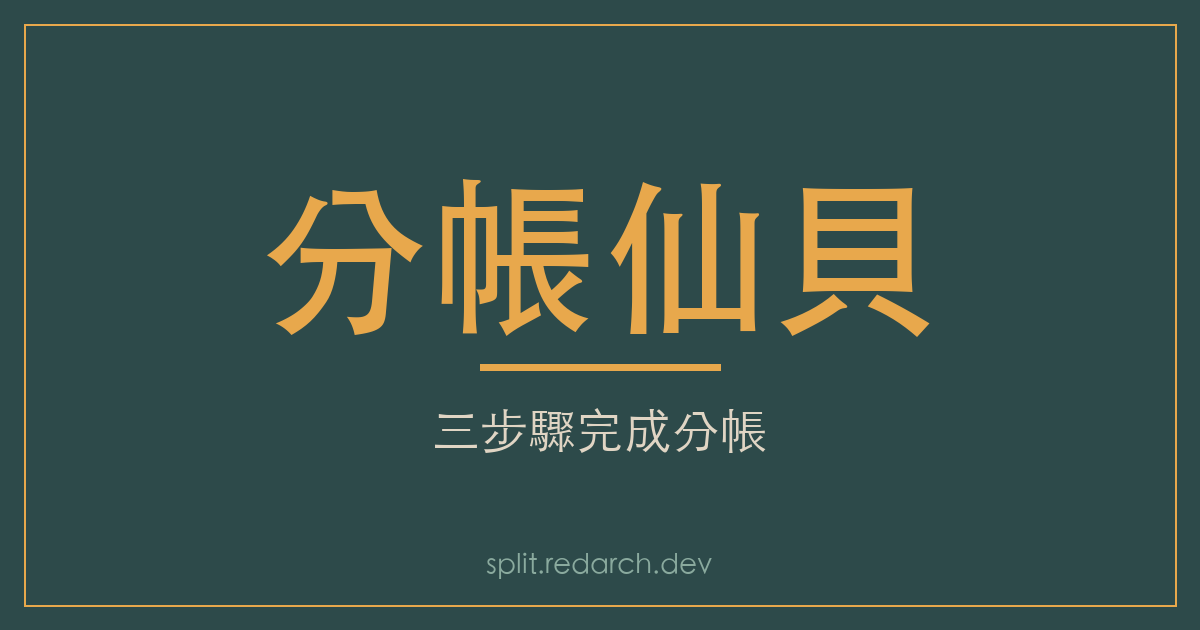
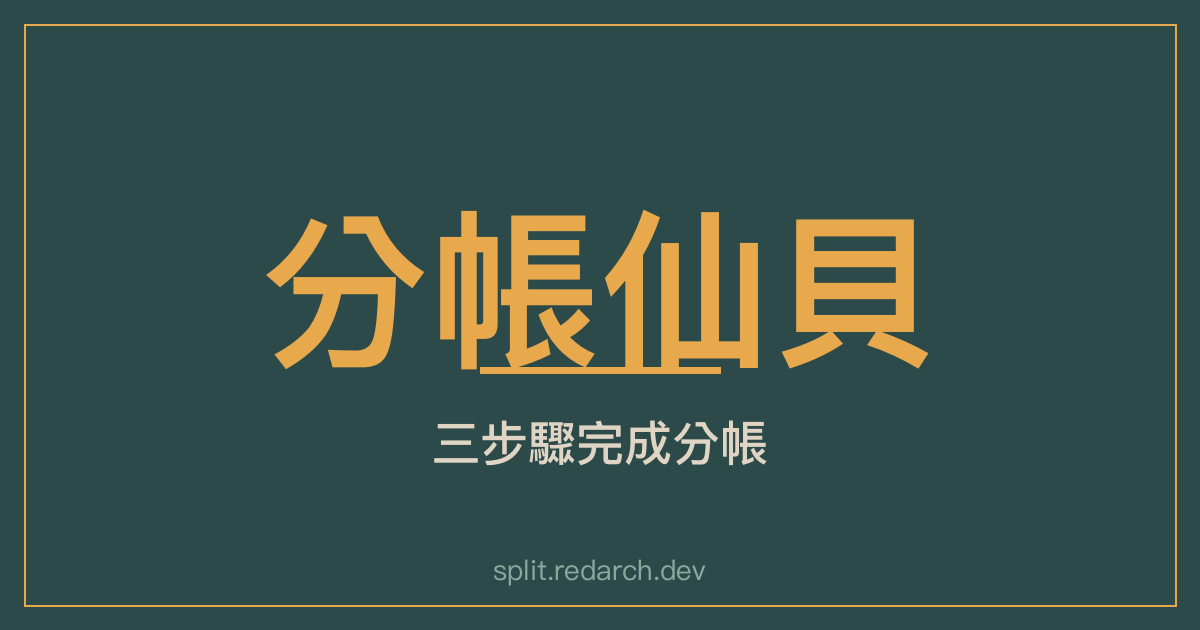
fix(og-image): use PingFang TC Semibold instead of HK Medium (#62)
The previous version of generate_og_image.py used PingFang.ttc index 4
expecting Heavy weight, but that face is actually 'PingFang HK Medium'
(verified via ImageFont.getname()) — PingFang.ttc has no Heavy weight
at all; the heaviest is Semibold at index 10. The result was a thinner,
less impactful brand title than intended.

Switch to explicit, name-verified face indices:
  10 = PingFang TC Semibold (title)
   6 = PingFang TC Medium   (tagline)
   2 = PingFang TC Regular  (URL footer)

Also handle macOS 14+ which relocated PingFang.ttc into AssetsV2 with
a hashed path; probe both the modern and legacy paths.

Changed region(s): [[0.2158, 0.2714, 0.7708, 0.6032], [0.37, 0.6333, 0.6475, 0.754], [0.4008, 0.8746, 0.5858, 0.9349]]

diff --git a/scripts/generate_og_image.py b/scripts/generate_og_image.py
@@ -25,32 +25,39 @@ MUTED = (138, 170, 158)  # --text-muted #8aaa9e
 
 WIDTH, HEIGHT = 1200, 630
 
-# Font discovery (CJK-capable, fallback chain)
-FONT_CANDIDATES_BOLD = [
-    ("/System/Library/Fonts/PingFang.ttc", 4),  # macOS Heavy
-    ("/System/Library/Fonts/PingFang.ttc", 3),  # macOS Semibold
-    ("/System/Library/Fonts/STHeiti Medium.ttc", 0),
-    ("/usr/share/fonts/opentype/noto/NotoSansCJK-Bold.ttc", 0),
-]
-FONT_CANDIDATES_REG = [
-    ("/System/Library/Fonts/PingFang.ttc", 1),  # macOS Regular
-    ("/System/Library/Fonts/STHeiti Light.ttc", 0),
-    ("/usr/share/fonts/opentype/noto/NotoSansCJK-Regular.ttc", 0),
+# PingFang.ttc face index layout (verified by ImageFont.getname()):
+#   0=HK Reg  1=MO Reg  2=TC Reg  3=SC Reg
+#   4=HK Med  5=MO Med  6=TC Med  7=SC Med
+#   8=HK Semi 9=MO Semi 10=TC Semi 11=SC Semi
+#   12=HK Light ... 16=HK Thin ... 20=HK Ultra
+PINGFANG_TC_SEMIBOLD = 10
+PINGFANG_TC_MEDIUM = 6
+PINGFANG_TC_REGULAR = 2
+
+# Path candidates: macOS 14+ relocated fonts to AssetsV2 with hashed paths.
+# We probe both the modern hashed location and the legacy stable path.
+PINGFANG_PATHS = [
+    "/System/Library/AssetsV2/com_apple_MobileAsset_Font8/86ba2c91f017a3749571a82f2c6d890ac7ffb2fb.asset/AssetData/PingFang.ttc",
+    "/System/Library/Fonts/PingFang.ttc",
 ]
 
 
-def _load(size: int, candidates: list) -> ImageFont.FreeTypeFont:
-    """Load the first available CJK-capable font at the given size."""
-    for path, idx in candidates:
-        if Path(path).exists():
-            try:
-                return ImageFont.truetype(path, size, index=idx)
-            except Exception:
-                continue
+def _resolve_pingfang() -> str:
+    """Find PingFang.ttc on this system."""
+    for p in PINGFANG_PATHS:
+        if Path(p).exists():
+            return p
+    # Fall back: any PingFang.ttc anywhere in /System/Library
+    candidates = list(Path("/System/Library").rglob("PingFang.ttc"))
+    if candidates:
+        return str(candidates[0])
     raise RuntimeError(
-        "No CJK-capable font found. Install fonts-noto-cjk on Linux "
-        "or run on macOS where PingFang.ttc ships with the OS."
+        "PingFang.ttc not found. Run on macOS where it ships with the OS."
     )
+
+
+def _load(font_path: str, index: int, size: int) -> ImageFont.FreeTypeFont:
+    return ImageFont.truetype(font_path, size, index=index)
 
 
 def _center_text(draw: ImageDraw.ImageDraw, text: str, font, y: int, fill) -> int:
@@ -62,6 +69,7 @@ def _center_text(draw: ImageDraw.ImageDraw, text: str, font, y: int, fill) -> in
 
 
 def main() -> None:
+    pingfang = _resolve_pingfang()
     img = Image.new("RGB", (WIDTH, HEIGHT), BG)
     draw = ImageDraw.Draw(img)
 
@@ -69,8 +77,8 @@ def main() -> None:
     pad = 24
     draw.rectangle([pad, pad, WIDTH - pad, HEIGHT - pad], outline=ACCENT, width=2)
 
-    # Brand title
-    title_font = _load(170, FONT_CANDIDATES_BOLD)
+    # Brand title — PingFang TC Semibold (heaviest weight in PingFang.ttc)
+    title_font = _load(pingfang, PINGFANG_TC_SEMIBOLD, 170)
     title_y = 170
     title_h = _center_text(draw, "分帳仙貝", title_font, y=title_y, fill=ACCENT)
 
@@ -82,12 +90,12 @@ def main() -> None:
         fill=ACCENT,
     )
 
-    # Tagline
-    tag_font = _load(48, FONT_CANDIDATES_REG)
+    # Tagline — PingFang TC Medium
+    tag_font = _load(pingfang, PINGFANG_TC_MEDIUM, 48)
     _center_text(draw, "三步驟完成分帳", tag_font, y=bar_y + bar_h + 36, fill=TEXT)
 
-    # URL footer
-    url_font = _load(28, FONT_CANDIDATES_REG)
+    # URL footer — PingFang TC Regular
+    url_font = _load(pingfang, PINGFANG_TC_REGULAR, 28)
     _center_text(draw, "split.redarch.dev", url_font, y=HEIGHT - 80, fill=MUTED)
 
     # Asset lives next to handler.py so SAM packages it automatically
